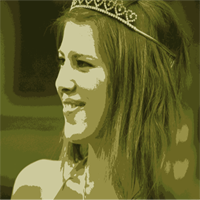
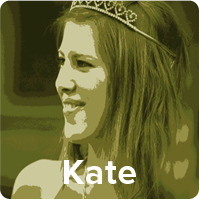
rounded friend/date, added GR narrative, and names over all character images

Changed region(s): [[0.0, 0.0, 1.0, 1.0], [0.3, 0.78, 0.69, 0.93]]

diff --git a/src/States/GettingReadyState.js b/src/States/GettingReadyState.js
@@ -1,16 +1,19 @@
 function GettingReady() {
 
   // These are the actual sprites and buttons that will be created and destroyed as the dialogue progresses
-  var choiceButton1, choiceButton2, dateDialogue, friendDialogue;
+  var choiceButton1, choiceButton2, dateDialogue, friendDialogue, narrative;
   
   var dialogueTree = [
-    {type: 'friend', msg: 'friend1', delay: -1, duration: -1},
-    {type: 'date', msg: 'date1', delay: -1, duration: -1},
-    {type: 'date', msg: 'date2', delay: -1, duration: -1},
-    {type: 'friend', msg: 'friend2', delay: -1, duration: -1},
-    {type: 'friend', msg: 'friend3', delay: -1, duration: -1},
-    {type: 'date', msg: 'date3', delay: -1, duration: -1},
-    {type: 'choice', msg: 0, delay: -1, duration: -1}, 
+    {type: 'narrative', msg: 'narrative1'},
+    {type: 'narrative', msg: 'narrative2'},
+    {type: 'narrative', msg: 'narrative3'},
+    {type: 'friend', msg: 'friend1'},
+    {type: 'date', msg: 'date1'},
+    {type: 'date', msg: 'date2'},
+    {type: 'friend', msg: 'friend2'},
+    {type: 'friend', msg: 'friend3'},
+    {type: 'date', msg: 'date3'},
+    {type: 'choice', msg: 0} 
     ];
 
   var progress;
@@ -18,6 +21,7 @@ function GettingReady() {
   var spriteDate;
   var spriteFriend;
   var DIALOGUE_DISPLAY_TIME = 2000;
+  var NARRATIVE_DISPLAY_TIME = 4500;
 
   function init() {
     progress = 0;
@@ -32,6 +36,11 @@ function GettingReady() {
 
     //background
     game.load.image('background', 'assets/Backgrounds/getting-ready-bkgrd.png');
+
+    //narrative assets
+    game.load.image('narrative1', 'assets/getting-ready/GR_narrative1.png');
+    game.load.image('narrative2', 'assets/getting-ready/GR_narrative2.png');
+    game.load.image('narrative3', 'assets/getting-ready/GR_narrative3.png');
 
     //player assets
     game.load.image('choice1a', 'assets/getting-ready/GR_choice1a.png');
@@ -48,7 +57,6 @@ function GettingReady() {
     game.load.image('friend1', 'assets/getting-ready/GR_friend1.png');
     game.load.image('friend2', 'assets/getting-ready/GR_friend2.png');
     game.load.image('friend3', 'assets/getting-ready/GR_friend3.png');
-    //game.load.image('friend4', 'assets/getting-ready/GR_friend4.png');
 
   }
 
@@ -177,6 +185,15 @@ function GettingReady() {
   }
 
   /**
+   * createNarrative: [asset key] -> void 
+   * adds narrative sprite corresponding to asset key to the screen 
+  **/
+
+  function createNarrative(key) {
+    return game.add.sprite(game.world.centerX - 350, game.world.centerY + 100, key);
+  }
+
+  /**
    * displayNext: void -> void
    * function iterates through dialogueTree and checks 'type' tag in order to display friend/date dialogue or choice buttons.
    */
@@ -188,6 +205,10 @@ function GettingReady() {
     
     if (friendDialogue) {
       friendDialogue.destroy();
+    }
+
+    if (narrative) {
+      narrative.destroy();
     }
 
     if (progress >= dialogueTree.length) {
@@ -212,24 +233,6 @@ function GettingReady() {
           key1 = 'choice2a';
           key2 = 'choice2b';
           console.log('c2');
-          break;
-
-        case 2:
-          key1 = 'choice3a';
-          key2 = 'choice3b';
-          console.log('c3');
-          break;
-
-        case 3:
-          key1 = 'choice4a';
-          key2 = 'choice4b';
-          console.log('c4');
-          break;
-
-        case 4:
-          key1 = 'choice5a';
-          key2 = 'choice5b';
-          console.log('c5');
           break;
 
         default:
@@ -257,6 +260,11 @@ function GettingReady() {
       choiceButton2.events.onInputOver.add(increaseButtonSize.bind({button: choiceButton2}));
       choiceButton2.events.onInputOut.add(decreaseButtonSize.bind({button: choiceButton2}));
     }
+    else if (dialogueTree[progress].type == 'narrative') {
+      narrative = createNarrative(dialogueTree[progress].msg);
+      setTimeout(displayNext, NARRATIVE_DISPLAY_TIME);
+      console.log('narrative');
+    }
     else if (dialogueTree[progress].type == 'date') {
       dateDialogue = createDateDialogue(dialogueTree[progress].msg);
       setTimeout(displayNext, DIALOGUE_DISPLAY_TIME);
@@ -280,15 +288,6 @@ function GettingReady() {
    * clears the screen of all buttons and/or dialogue, resets all to null, and then displays the next dialogue
    */
   function onChoiceSelected() {
-
-    // if (dateDialogue) {
-    //   dateDialogue.destroy();
-    // }
-    
-    // if (friendDialogue) {
-    //   friendDialogue.destroy();
-    // }
-
     if (choiceButton1) {
       choiceButton1.destroy();
     }
